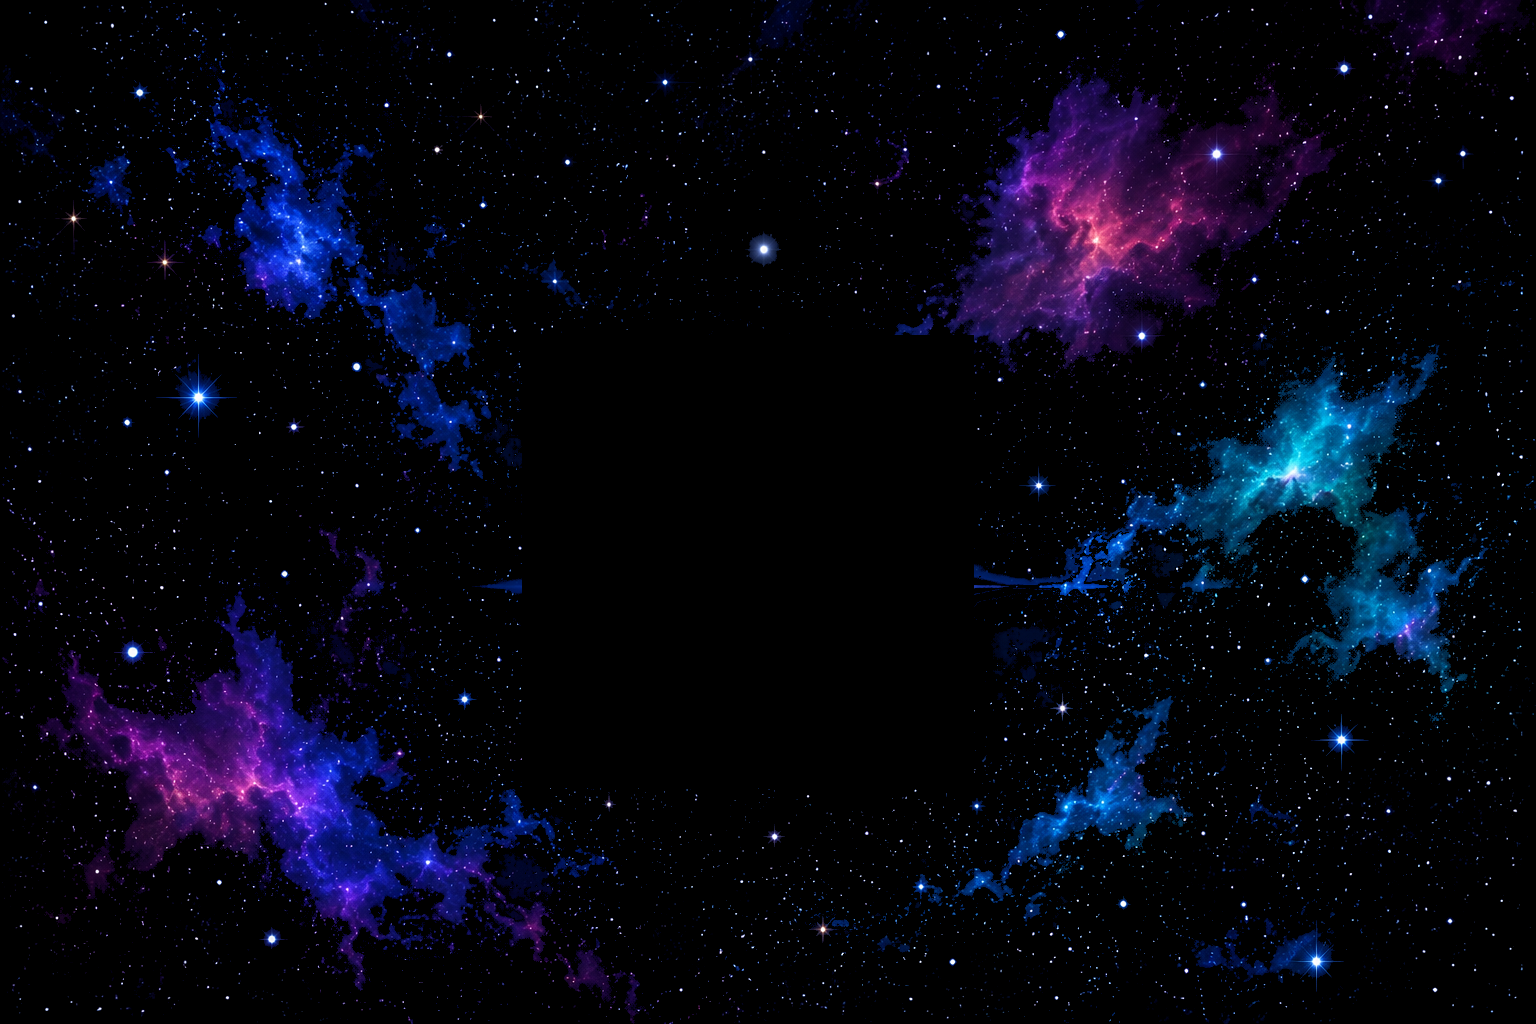
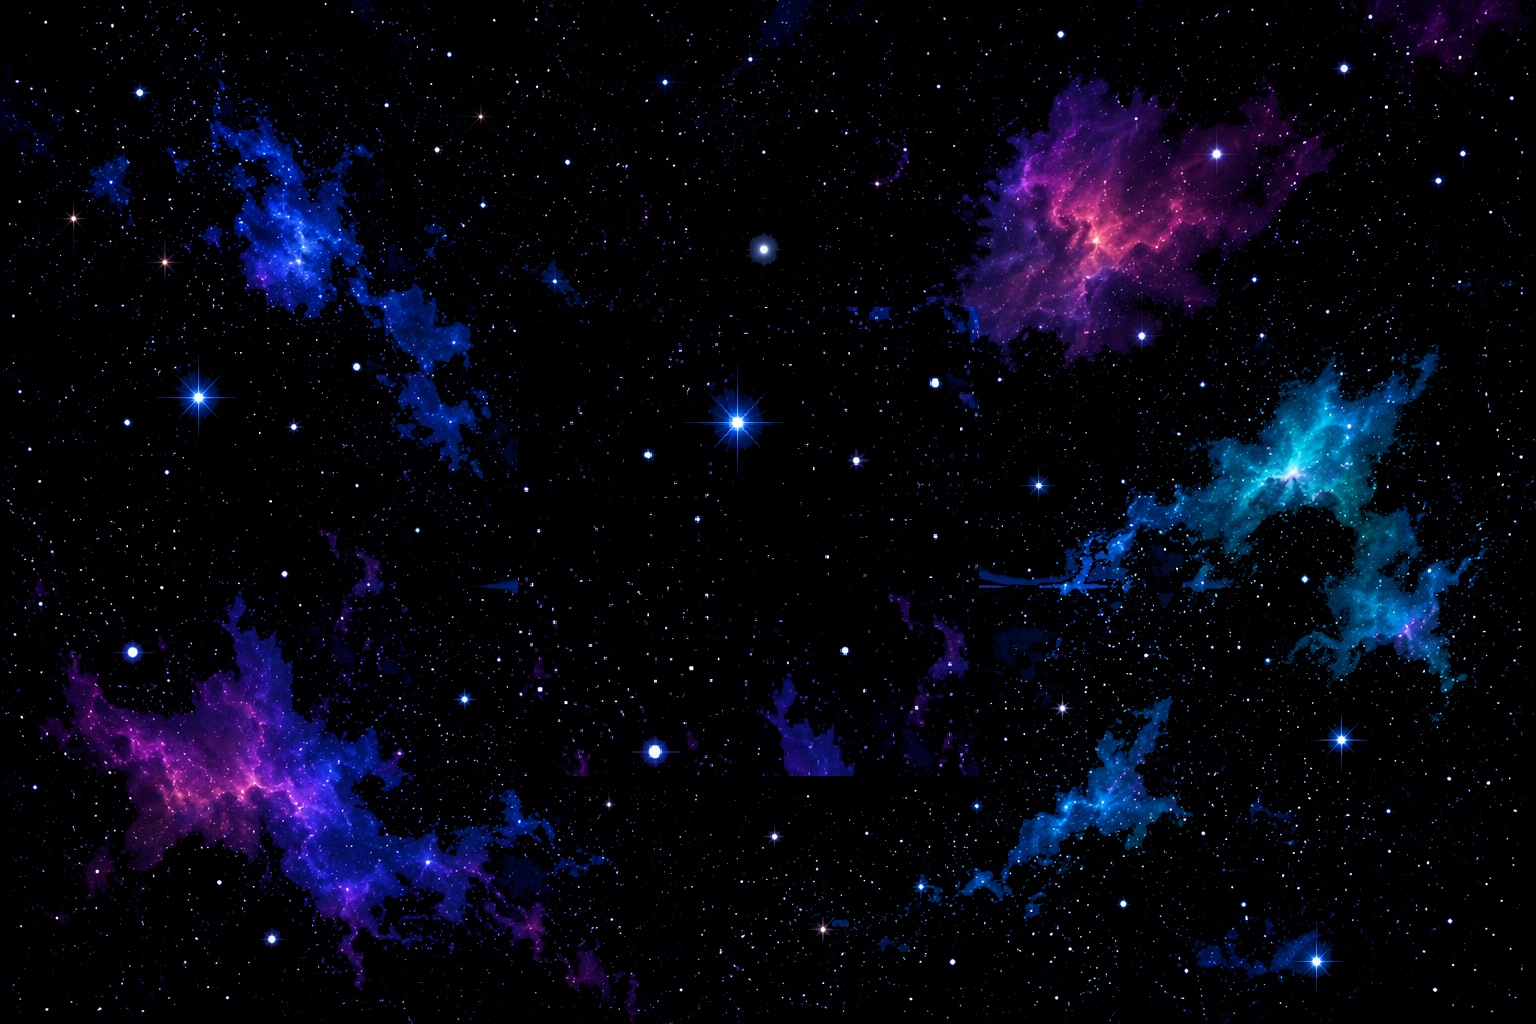
einde fase1

diff --git a/index.html b/index.html
@@ -6,15 +6,15 @@
   <title>Free App Swap - Login JSON ready</title>
 
 
-<link rel="stylesheet" href="css/style.css" />
-<link rel="stylesheet" href="css/account.css" />
-<link rel="stylesheet" href="css/search.css" />
-<link rel="stylesheet" href="css/download.css" />
-<link rel="stylesheet" href="css/upload.css" />
-<link rel="stylesheet" href="css/admin.css" />
-<link rel="stylesheet" href="css/product.css" />
-<link rel="stylesheet" href="css/responsive.css" />
-<link rel="stylesheet" href="css/intro.css">
+<link rel="stylesheet" href="css/style.css?v=2" />
+<link rel="stylesheet" href="css/account.css?v=2" />
+<link rel="stylesheet" href="css/search.css?v=2" />
+<link rel="stylesheet" href="css/download.css?v=2" />
+<link rel="stylesheet" href="css/upload.css?v=2" />
+<link rel="stylesheet" href="css/admin.css?v=2" />
+<link rel="stylesheet" href="css/product.css?v=2" />
+<link rel="stylesheet" href="css/responsive.css?v=2" />
+<link rel="stylesheet" href="css/intro.css?v=2">
 </head>
 
 
